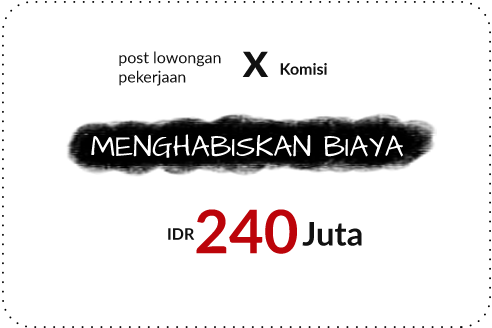
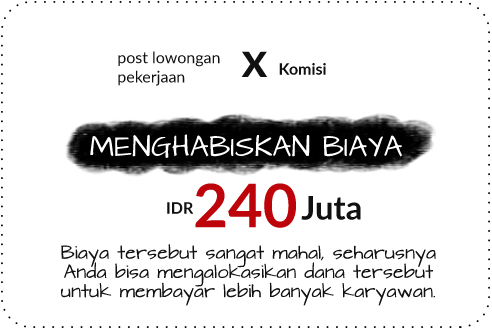
update career website service page

diff --git a/layanan/pembuatan-website-karir-perusahaan/css/style.css b/layanan/pembuatan-website-karir-perusahaan/css/style.css
@@ -69,8 +69,9 @@ img.pright{
 }
 header.head-banner{
 	background: url(../images/banner.jpg) no-repeat;
-	background-size: cover;
-	height: 550px;
+	background-size: contain;
+	background-position: right;
+	height: 580px;
 	width: 100%;
 	display: block;
 }
@@ -608,6 +609,10 @@ header.head-banner{
 
     /* Small Devices, Tablets */
     @media only screen and (max-width : 768px) {
+    	header.head-banner {
+    		height: auto;
+    		background-image: none;
+    	}
     	.big-text{
     		font-size: 42px !important;
     	}

diff --git a/layanan/pembuatan-website-karir-perusahaan/index.php b/layanan/pembuatan-website-karir-perusahaan/index.php
@@ -73,11 +73,15 @@ ga('send', 'pageview');
 
 						</h1>
 						<div class="banner-subt">
-							Mari Buat Website Perekrutan Karyawan Anda Sendiri<br><br>
-							Sebuah Website perekrutan karyawan yang efektif dan mempunyai biaya yang rendah! <br><br>
-							Kami sadar dan memahami bahwa menggunakan situs lowongan kerja mempunyai biaya yang mahal serta sulit untuk melakukan pemilihan karyawan yang Anda inginkan.
-							<br><br>
-							Karena itu, mari kita sedikit lebih bijak dengan mengeluarkan biaya yang rendah namun mempunyai efektivitas yang cukup tinggi sehingga membuat waktu Anda sebagai HRD menjadi lebih efisien dengan membuat sebuah website perekrutan karyawan yang sesuai dengan keinginan Anda.
+							<div class="row">
+								<div class="col-md-10">
+									Mari Buat Website Perekrutan Karyawan Anda Sendiri<br><br>
+									Sebuah Website perekrutan karyawan yang efektif dan mempunyai biaya yang rendah! <br><br>
+									Kami sadar dan memahami bahwa menggunakan situs lowongan kerja mempunyai biaya yang mahal serta sulit untuk melakukan pemilihan karyawan yang Anda inginkan.
+									<br><br>
+									Karena itu, mari kita sedikit lebih bijak dengan mengeluarkan biaya yang rendah namun mempunyai efektivitas yang cukup tinggi sehingga membuat waktu Anda sebagai HRD menjadi lebih efisien dengan membuat sebuah website perekrutan karyawan yang sesuai dengan keinginan Anda.
+								</div>
+							</div>
 						</div>
 					</div>
 				</div>
@@ -180,8 +184,6 @@ ga('send', 'pageview');
 					</div>
 					<div class="col-sm-12 simul-description">
 					 <center>
-					 	Biaya tersebut sangat mahal, seharusnya Anda bisa mengalokasikan dana tersebut untuk membayar lebih banyak karyawan.
-					 	<br><br>
 						Jika pelamar ternyata tidak sesuai dengan kriteria perusahaan, maka biaya serta tenaga yang Anda keluarkan akan menjadi sia-sia. Bahkan bisa saja menimbulkan potensi masalah lain di kemudian hari, seperti pengunduran diri karyawan dalam waktu dekat karena tidak mampu beradaptasi dengan lingkungan kerja sehingga membuat Anda harus mengulang proses rekrutmen karyawan dari awal. Hal ini tentu membuang-buang waktu Anda.
 					 </center>
 					</div>
@@ -466,7 +468,15 @@ ga('send', 'pageview');
 			<section class="reason-container">
 				<div class="container">
 					<div class="row">
-						<div class="col-sm-8 col-sm-offset-2">
+						<div class="col-sm-6 ">
+							<center>
+								<img src="images/sugoisaiyo-logo.png" alt=""  class="img-responsive">
+								<div>Jalankan proses rekrutmen dengan mudah dan efektif secara online. Kandidat dapat memasukkan data mereka via sistem dan Anda dapat melakukan proses rekrutmen mulai dari pemeriksaan CV, psikotes, tes teknikal, pengaturan jadwal interview, hingga memberikan surat penawaran. Semuanya dapat di monitor dengan mudah melalui satu sistem terintegrasi.</div>
+								<br>
+								<!-- <a href="#" class="btn btn-lg btn-yellow">Lihat Informasi Lebih Lanjut</a> -->
+							</center>
+						</div>
+						<div class="col-sm-6 ">
 							<center>
 								<img src="images/dokodemo-logo.png" alt=""  class="img-responsive">
 								<div>Masalah dan waktu yang kurang efektif ketika karyawan Anda tinggal jauh dari kantor mungkin membuat Anda berpikir untuk menerapkan sistem kerja remote. Namun tentu saja sistem kerja seperti ini dikhawatirkan akan membuat karyawan tidak efisien dalam bekerja. Dengan Dokodemo Kerja, Anda tidak perlu khawatir karena sistem ini akan membantu menciptakan kondisi kerja yang profesional antara perusahaan dan karyawan. Karyawan dapat mencatat waktu mulai, istirahat, dan berhenti kerja untuk perhitungan pembayaran, disisi lain perusahaan juga dapat menerima informasi tambahan berupa screenshot yang diambil pada waktu acak untuk memonitor tingkat efisiensi karyawan.</div>
